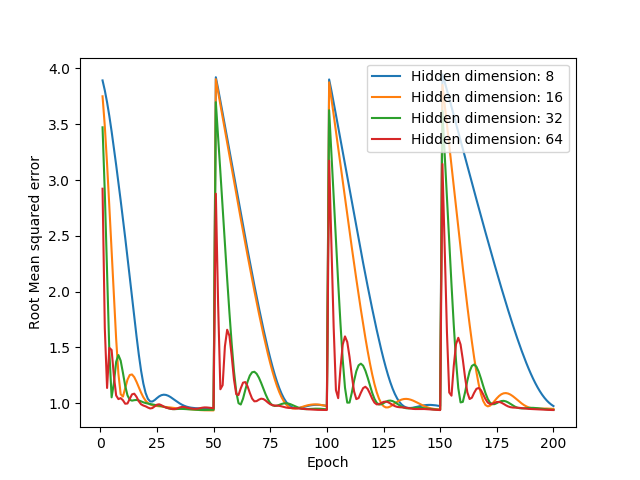
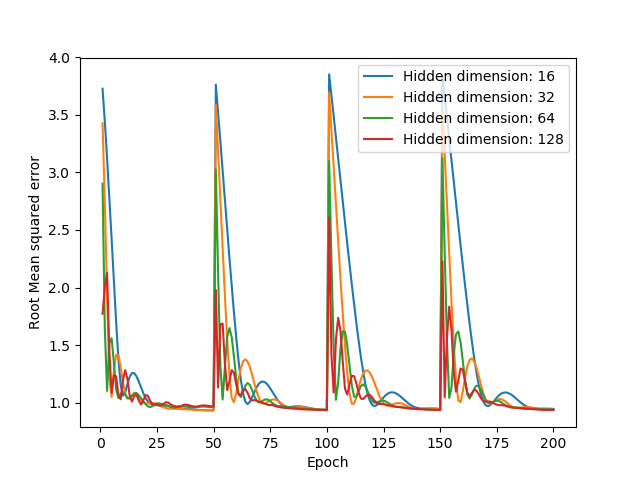
Final model

diff --git a/src/autoencoder.py b/src/autoencoder.py
@@ -389,7 +389,7 @@ def experiment_activation():
 def run_experiments():
     # experiment_learning_rate()
     experiment_hidden_dim()
-    experiment_num_stack()
+    # experiment_num_stack()
     # experiment_optimizer()
     # experiment_activation()
 
